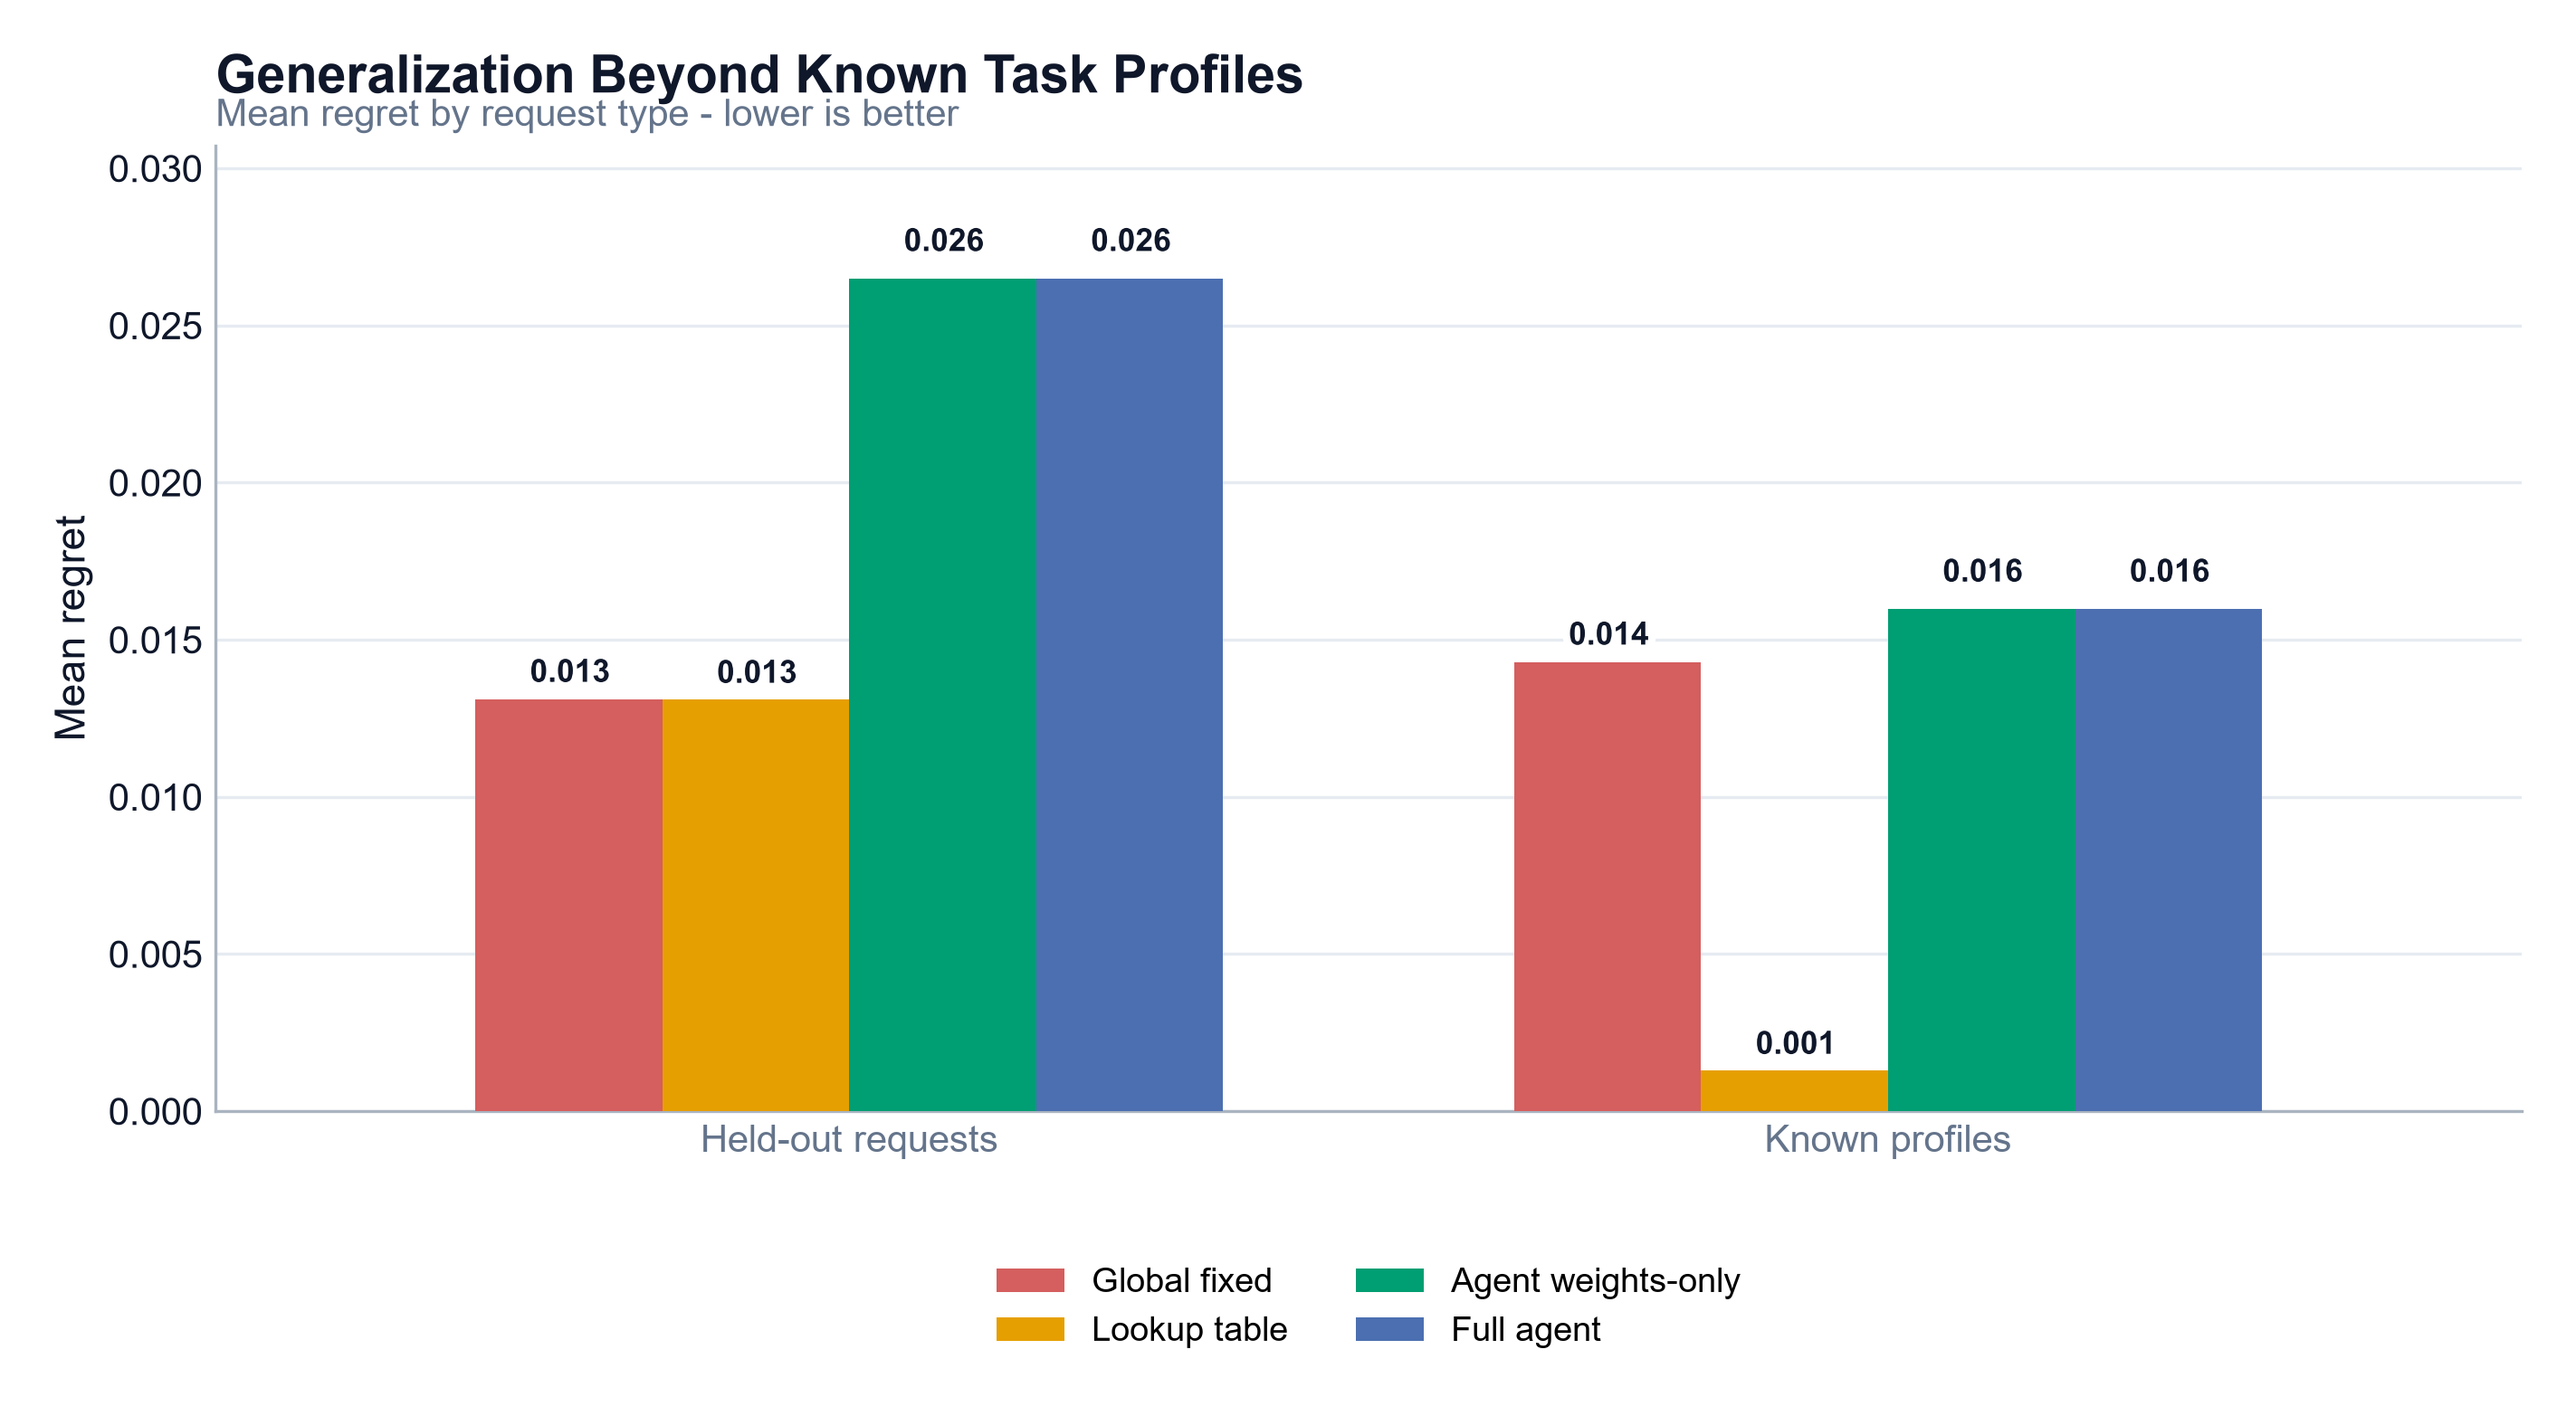
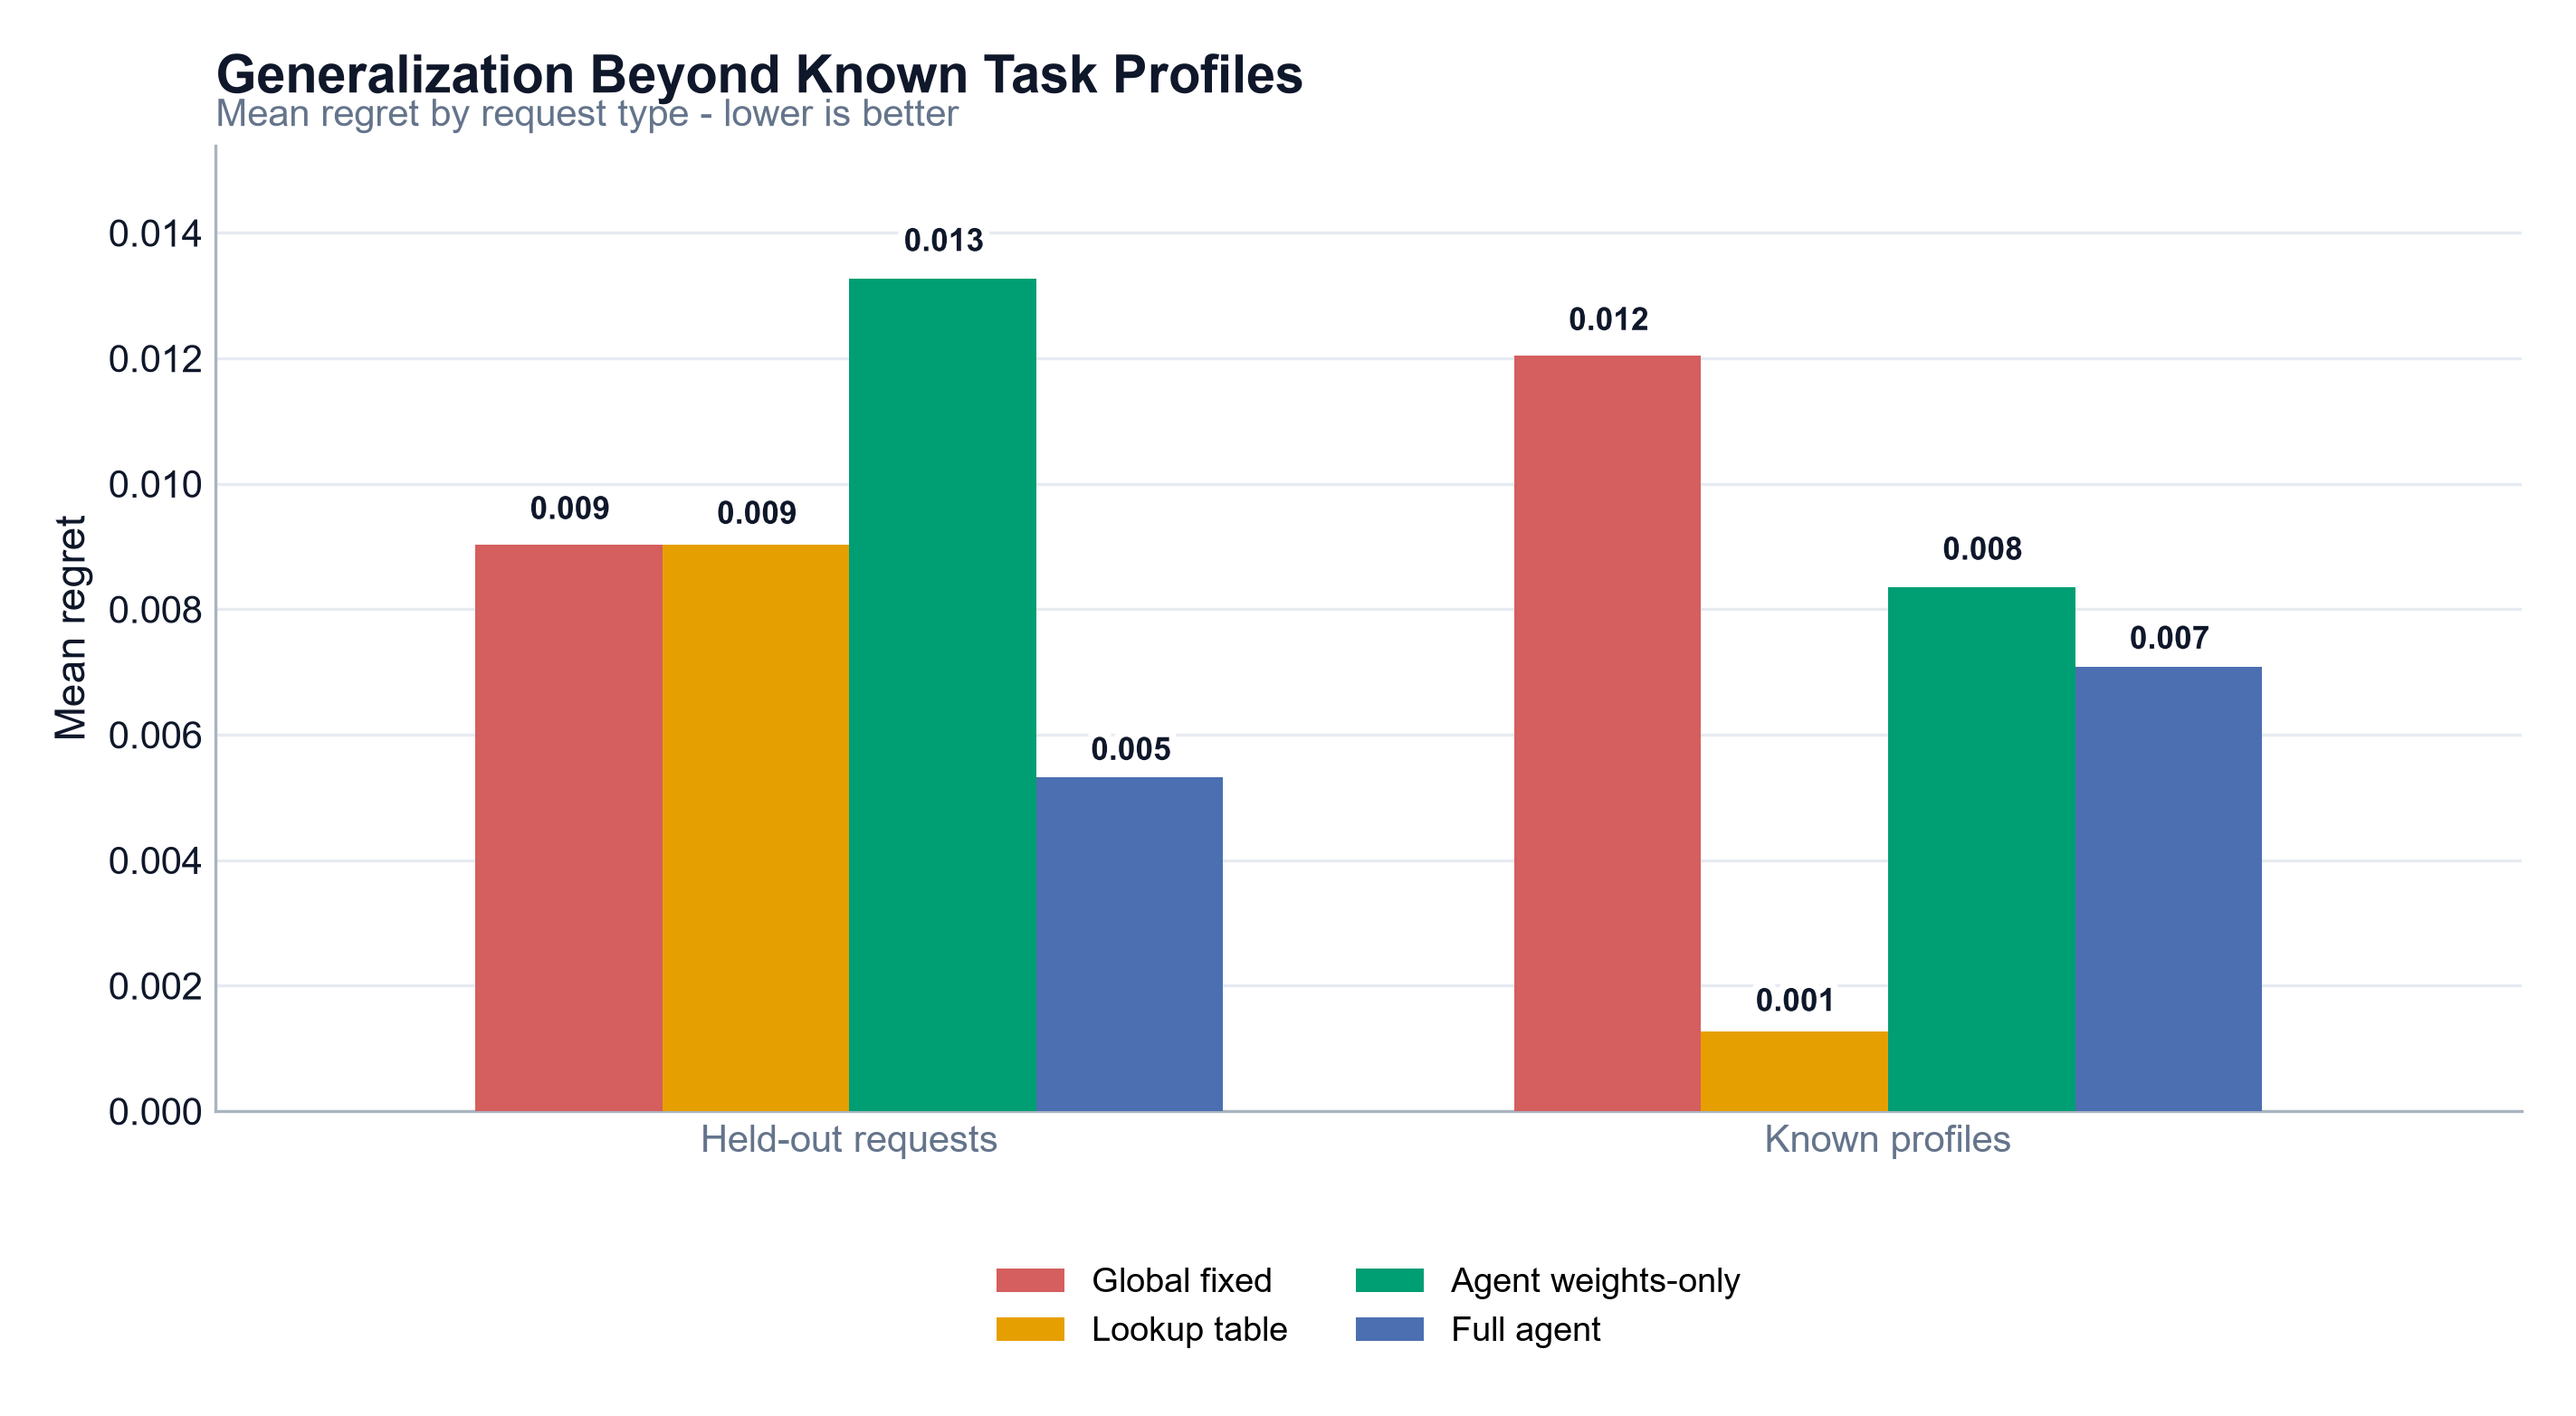
Refactor and update 04_run_stable_experiment.py and related files

diff --git a/scripts/04_run_stable_experiment.py b/scripts/04_run_stable_experiment.py
@@ -27,8 +27,7 @@ sys.path.insert(0, str(Path(__file__).resolve().parents[1] / "src"))
 
 import pandas as pd
 
-from agentic_selection.agent import AgentController, build_backend_from_config
-from agentic_selection.agent.controller import RAGAgentController
+from agentic_selection.agent import AgentController, build_backend_from_config, ClassificationReasoner
 from agentic_selection.constants import QWS_ATTRIBUTE_COLUMNS
 from agentic_selection.evaluation.protocol import run_stable_protocol, STABLE_RESULT_FIELDS
 from agentic_selection.evaluation.storage import CsvStorage
@@ -86,13 +85,7 @@ def main() -> int:
         memory_path=memory_path,
         tool_menu=tuple(config["agent"]["tool_menu"]),
         k_memory=config["agent"]["k_memory"],
-    )
-    rag_controller = RAGAgentController(
-        backend=backend,
-        attribute_cols=QWS_ATTRIBUTE_COLUMNS,
-        memory_path=memory_path,
-        tool_menu=tuple(config["agent"]["tool_menu"]),
-        k_memory=config["agent"]["k_memory"],
+        reasoning_strategy=ClassificationReasoner(),
     )
 
     results_dir = project_root / config["paths"]["results_dir"]
@@ -114,7 +107,6 @@ def main() -> int:
         pool_size=pool_size,
         base_seed=base_seed,
         is_synthetic_data=is_synthetic,
-        rag_controller=rag_controller,
     )
     print(f"\nDone. {len(results)} total trial rows in {output_csv}")
     print("Next: python scripts/05_run_drift_experiment.py")
